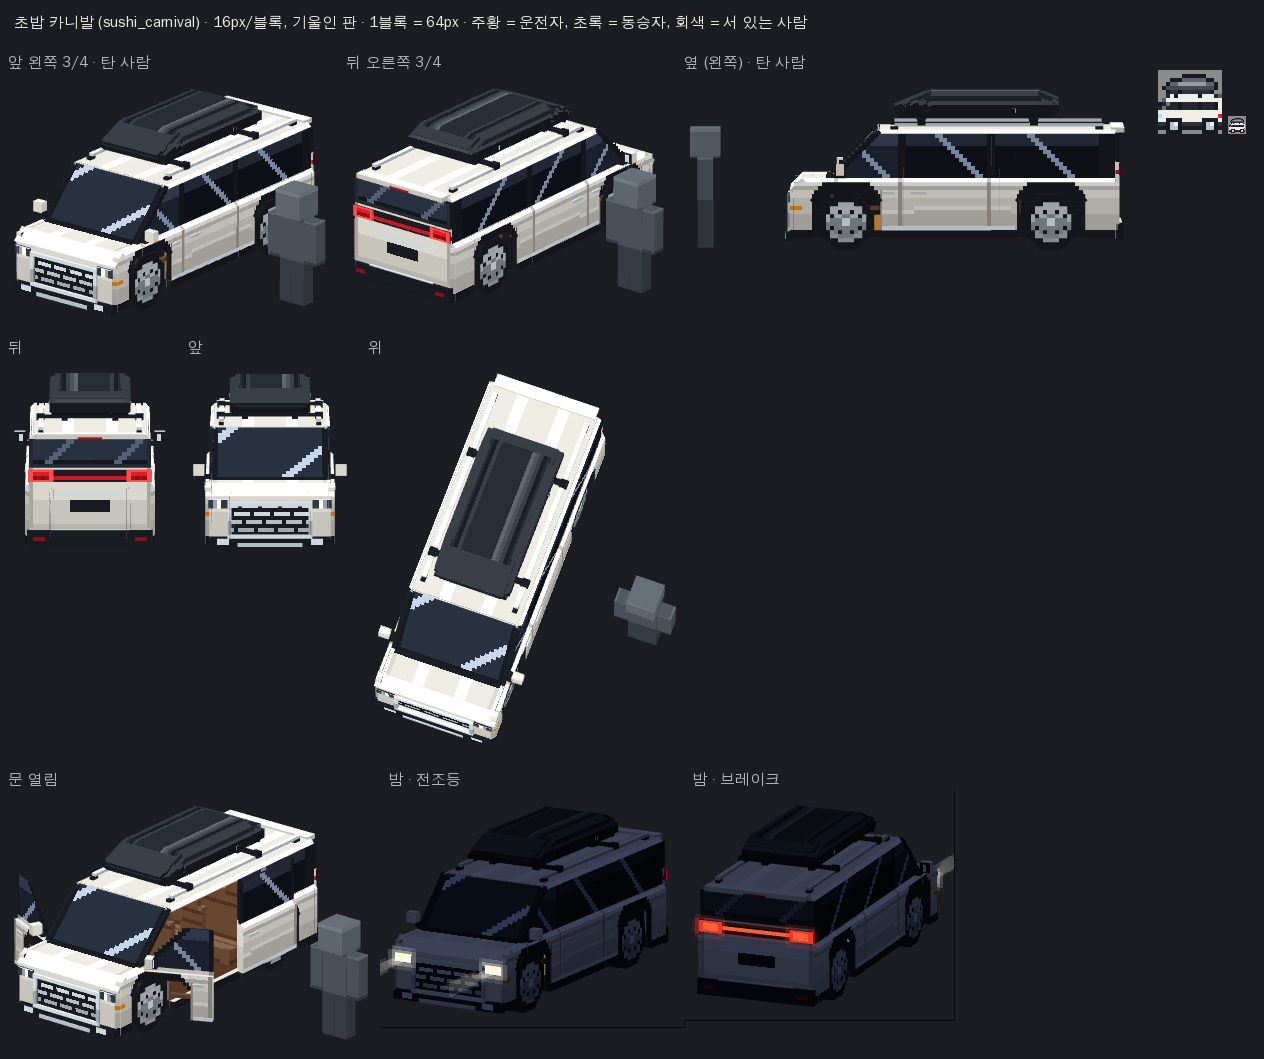
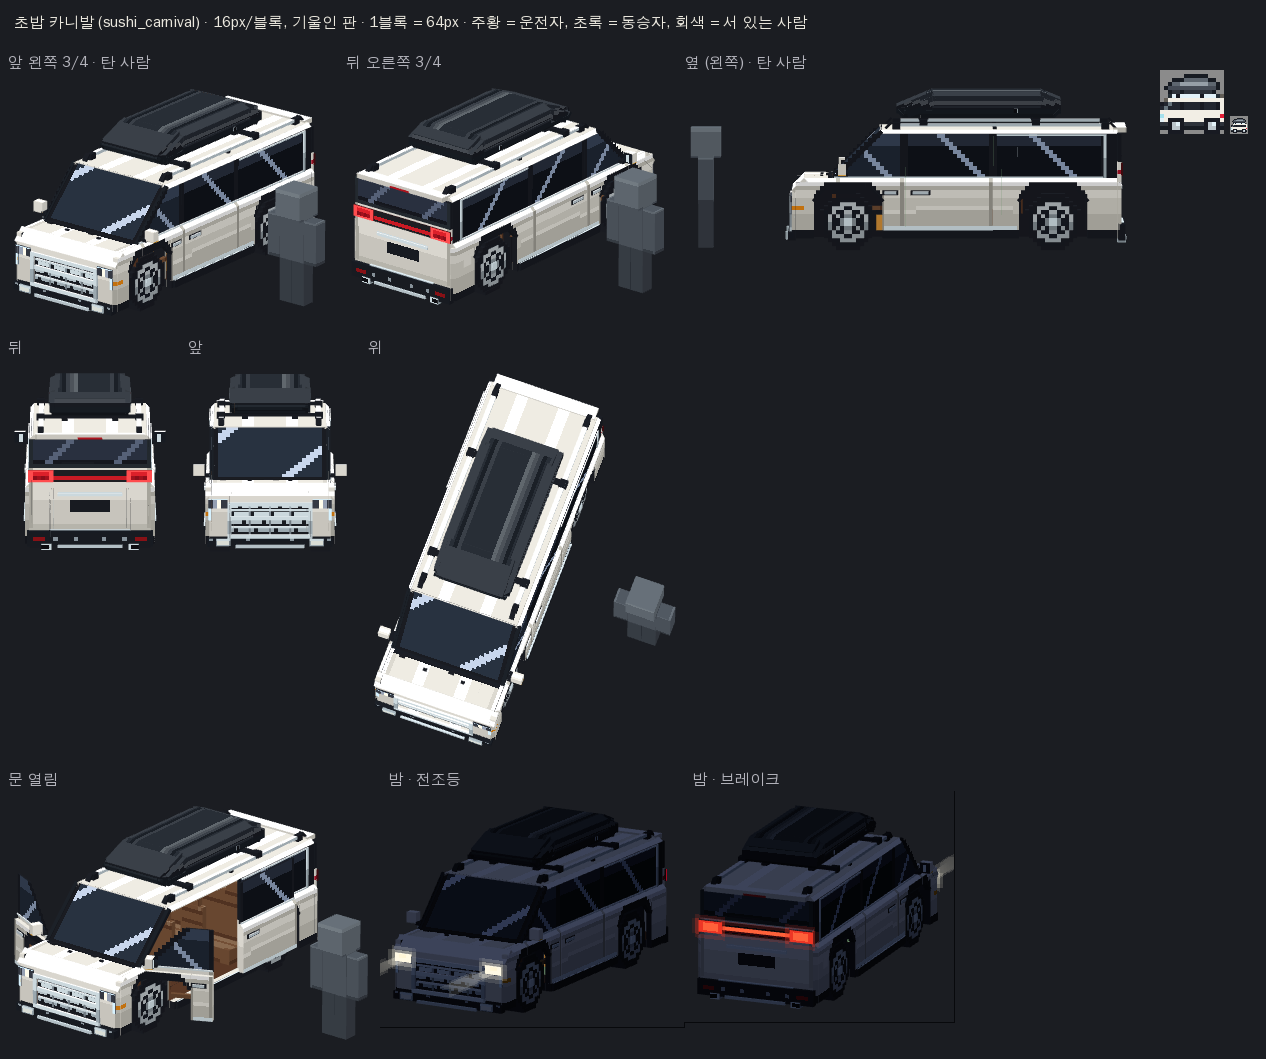
작업 중간 저장 (아직 jar 아님)
Claude-Session: https://claude.ai/code/session_01RZiBpXr9dauHCJtPMWBQ4s

diff --git a/tools/assetgen/models/vehicles_donation_sushi_carnival.py b/tools/assetgen/models/vehicles_donation_sushi_carnival.py
@@ -407,6 +407,7 @@ def carnival_kit(colour="sc_pearl", trim="sc_leather", box="sc_box", name="sushi
     _door_parts(kit, ctx)
     _roof_rack(m, ctx)
     _roof_box(m, ctx)
+    _side_details(m, ctx)
     m.display = _held_display()
     _KIT[key] = kit
     return kit
@@ -563,14 +564,54 @@ def _front(m, ctx):
     def valance(c):
         x, y, z = c.p
         ax = abs(x)
-        if c.face == "north" and 3.5 <= y < 4.5 and 4.5 <= ax < 8.5:
-            return tone("sc_black", 0.0) if math.floor(x) % 2 else tone("sc_black", 0.4)
-        if c.face == "north" and 3.5 <= y < 4.5 and 10 <= ax < 13:
-            return ("raw", (230, 236, 244, 255))                         # fog lamp slots
+        if c.face == "north" and 3 <= y < 4 and 4.5 <= ax < 8.5:
+            return tone("sc_black", 0.0) if math.floor(x) % 2 else tone("sc_black", 0.45)   # the intake's mesh
+        if c.face == "north" and 4 <= y < 4.5 and math.floor(ax) in (5, 14):
+            return tone("sc_chrome", 0.45)                               # parking sensors
         return tone("sc_black", 0.32 if c.face != "up" else 0.5)
     m.box("valance", (-(W - 0.5), GROUND - 0.5, NOSE - 1), (W - 0.5, GRILLE_Y0 - 1, NOSE + 1),
           Paint("sc_black", 1, noise=0, grad=0, rim=0.3, decal=valance))
-    m.box("skid", (-8, GROUND - 0.5, NOSE - 1.25), (8, GROUND + 0.5, NOSE - 1), _chrome(0.9, 0.7, 0.5))
+    # the silver skid-plate lip under it
+    m.box("skid", (-8.5, GROUND - 0.75, NOSE - 1.5), (8.5, GROUND, NOSE - 0.5), _chrome(0.9, 0.72, 0.5))
+    _front_details(m, ctx)
+
+
+def _front_details(m, ctx):
+    """The grille's 3D chrome bars, the L-shaped running lights, the fog lamps, washer jets, wipers."""
+    fr = _chrome(0.98, 0.82, 0.55)
+
+    def bar(c):
+        if c.face == "north" and abs(c.p[0]) < 0.5 and c.hi[1] - c.lo[1] > 0.6:
+            return ("raw", (16, 16, 20, 255))                            # the parking camera's eye
+        return fr.decal(c)
+    m.box("grille_bar", (-GRILLE_X, 9, NOSE - 0.2), (GRILLE_X, 10, NOSE + 0.5), Paint("sc_chrome", 5, noise=0, rim=0.4, ao=0.2, decal=bar))
+    for y in (7, 11.25):
+        m.box("grille_slat", (-GRILLE_X, y, NOSE + 0.2), (GRILLE_X, y + 0.5, NOSE + 0.6), fr)
+    for x in (-5, 0, 5):
+        m.box("grille_rib", (x - 0.25, GRILLE_Y0, NOSE + 0.45), (x + 0.25, GRILLE_Y1, NOSE + 0.7), _chrome(0.7, 0.5, 0.35))
+    m.group("lights")
+    drl = Paint("sc_led", 2, noise=0, light=False, glow=True, decal=lambda c: ("raw", (214, 242, 255, 255)) if c.face == "north" else ("raw", (60, 70, 84, 255)))
+    for s in (-1, 1):
+        # the L: down the lamp's outer end
+        m.box("drl", _lo(s, LAMP[1] - 0.75, LAMP[1], 9, NOSE - 0.3), _hi(s, LAMP[1] - 0.75, LAMP[1], LAMP[2], NOSE), drl)
+
+        def fog(c):
+            if c.face != "north":
+                return tone("sc_chrome", 0.6)
+            dx, dy = abs(c.p[0]) - 11.5, c.p[1] - 3.75
+            if abs(dx) < 1.25 and abs(dy) < 0.5:
+                return ("raw", (240, 244, 236, 255))
+            return tone("sc_chrome", 0.85 if dy > 0 else 0.55)
+        m.box("fog_lamp", _lo(s, 9.75, 13.25, 2.75, NOSE - 1.6), _hi(s, 9.75, 13.25, 4.5, NOSE - 1),
+              Paint("sc_chrome", 5, noise=0, light=False, decal=fog))
+    m.group("body")
+    for s in (-1, 1):
+        m.box("washer_jet", _lo(s, 4.5, 5.5, BELT, -34), _hi(s, 4.5, 5.5, BELT + 0.35, -33.25), BLACK)
+    wip = Paint("sc_black", 0, noise=0, rim=0.4)
+    for x0, x1 in ((-12.5, -1.5), (1.5, 11.5)):
+        m.box("wiper", (x0, BELT, ZS0 - 0.9), (x1, BELT + 0.4, ZS0 - 0.4), wip)
+    for x in (-1.5, 11.5):
+        m.box("wiper_arm", (x - 0.75, BELT, ZS0 - 1.6), (x + 0.75, BELT + 0.5, ZS0 - 0.9), wip)
 
 
 def _rear(m, ctx):
@@ -616,7 +657,9 @@ def _rear(m, ctx):
     def bumper(c):
         x, y, z = c.p
         if c.face == "south" and 4.5 <= y < 5.5 and 11.5 <= abs(x) < 14:
-            return ("raw", (150, 20, 26, 255))
+            return ("raw", (150, 20, 26, 255))                           # reflectors
+        if c.face == "south" and 4.5 <= y < 5 and math.floor(abs(x)) in (3, 8):
+            return tone("sc_chrome", 0.45)                               # parking sensors
         if c.face == "up":
             return tone("sc_black", 0.5)
         return tone("sc_black", 0.28)
@@ -629,6 +672,18 @@ def _rear(m, ctx):
     m.box("spoiler", (-(W - 2.5), ROOF - 0.75, RZ1 - 1), (W - 2.5, ROOF + 0.5, TAIL + 1.25), sp)
     m.box("stop_lamp", (-3, ROOF - 0.75, TAIL + 1.25), (3, ROOF - 0.25, TAIL + 1.3),
           Paint("sc_tail", 1, noise=0, light=False, decal=lambda c: ("raw", (190, 24, 34, 255))))
+    # the chrome garnish over the plate, the silver skid plate, two slim exhaust tips under the bumper
+    m.box("garnish", (-8, 15, TAIL), (8, 15.75, TAIL + 0.3), _chrome(0.98, 0.82, 0.55))
+    m.box("skid_r", (-8, GROUND - 0.75, TAIL + 0.5), (8, GROUND, TAIL + 1.4), _chrome(0.9, 0.72, 0.5))
+
+    def tip(c):
+        if c.face == "south":
+            r = abs(c.p[1] - 2.5)
+            return ("raw", (16, 16, 20, 255)) if r < 0.3 and abs(abs(c.p[0]) - 10.75) < 0.9 else tone("sc_chrome", 0.9)
+        return tone("sc_chrome", 0.7)
+    for s in (-1, 1):
+        m.box("exhaust", _lo(s, 9.5, 12, 1.75, TAIL - 1), _hi(s, 9.5, 12, 3.25, TAIL + 1.2),
+              Paint("sc_chrome", 5, noise=0, rim=0.3, decal=tip))
 
 
 def _glasshouse(m, kit, ctx):
@@ -774,13 +829,50 @@ def _door_parts(kit, ctx):
             if c.face in ("east", "west") and c.p[1] < BELT + 1.5:
                 return ("raw", (255, 190, 80, 255))                     # the repeater along its foot
             return tone(C, 0.8)
-        d.box("mirror_foot", _lo(s, W - 1, W + 0.5, BELT, z), _hi(s, W - 1, W + 0.5, BELT + 1, z + 2.5), BLACK)
+        d.box("mirror_foot", _lo(s, W - 1, W + 0.5, BELT + 0.4, z), _hi(s, W - 1, W + 0.5, BELT + 1.2, z + 2.5), BLACK)
         d.box("mirror", _lo(s, W + 0.25, W + 3, BELT + 0.75, z), _hi(s, W + 0.25, W + 3, BELT + 3.5, z + 2),
               Paint(C, 4, noise=0, grad=0, rim=0.3, ao=0, decal=mirror))
-        d.box("handle", _lo(s, W, W + 0.3, 14, D1 - 5), _hi(s, W, W + 0.3, 14.75, D1 - 2), CHROME)
+        d.box("handle_cup", _lo(s, W, W + 0.1, 13.75, D1 - 5.5), _hi(s, W, W + 0.1, 15, D1 - 1.5), BLACK)
+        d.box("handle", _lo(s, W + 0.1, W + 0.4, 14, D1 - 5), _hi(s, W + 0.1, W + 0.4, 14.75, D1 - 2), CHROME)
         d.box("arm_rest", _lo(s, CAB - 1, CAB, 10, D0 + 6), _hi(s, CAB - 1, CAB, 11, D1 - 2), Paint(TR, 2, noise=0, rim=0.4))
         sl = kit["slide_l" if s < 0 else "slide_r"]
-        sl.box("handle", _lo(s, W, W + 0.3, 14, S0 + 2), _hi(s, W, W + 0.3, 14.75, S0 + 6), CHROME)
+        sl.box("handle_cup", _lo(s, W, W + 0.1, 13.75, S0 + 1.5), _hi(s, W, W + 0.1, 15, S0 + 6.5), BLACK)
+        sl.box("handle", _lo(s, W + 0.1, W + 0.4, 14, S0 + 2), _hi(s, W + 0.1, W + 0.4, 14.75, S0 + 6), CHROME)
+        # the chrome window-line trim along the belt (front door, sliding door; the body has the rest)
+        trim = _chrome(0.98, 0.85, 0.6)
+        d.box("belt_trim", _lo(s, CAB + 0.5, CAB + 0.8, BELT, D0), _hi(s, CAB + 0.5, CAB + 0.8, BELT + 0.4, D1), trim)
+        sl.box("belt_trim", _lo(s, CAB + 0.5, CAB + 0.8, BELT, S0), _hi(s, CAB + 0.5, CAB + 0.8, BELT + 0.4, S1), trim)
+
+
+def _side_details(m, ctx):
+    """The body's chrome belt trim and the Carnival-like chrome sweep along the quarter window's top and down the D
+    pillar, the black rocker cladding with a chrome strip, the fuel flap on the right rear quarter."""
+    trim = _chrome(0.98, 0.85, 0.6)
+    for s in (-1, 1):
+        lo, hi = CAB + 0.5, CAB + 0.8
+        m.box("belt_trim", _lo(s, lo, hi, BELT, ZS0 + 0.5), _hi(s, lo, hi, BELT + 0.4, D0), trim)
+        m.box("belt_trim", _lo(s, lo, hi, BELT, S1), _hi(s, lo, hi, BELT + 0.4, RZ1 - 3.5), trim)
+        m.box("dlo_trim", _lo(s, lo, hi, GLASS_TOP - 0.5, S1 + 1), _hi(s, lo, hi, GLASS_TOP - 0.1, RZ1 - 2.75), trim)
+        m.box("pillar_fin", _lo(s, lo, hi, BELT, RZ1 - 3.5), _hi(s, lo, hi, GLASS_TOP - 0.5, RZ1 - 2.75), trim)
+
+        def rocker(c):
+            if c.face == "up":
+                return tone("sc_chrome", 0.85)
+            if c.face in ("east", "west") and c.p[1] > GROUND + 1.6:
+                return tone("sc_chrome", 0.7)
+            return tone("sc_black", 0.2)
+        m.box("rocker", _lo(s, W, W + 0.5, GROUND, WF + ARCH + 0.75), _hi(s, W, W + 0.5, GROUND + 2, WR - ARCH - 0.75),
+              Paint("sc_black", 1, noise=0, rim=0.3, decal=rocker))
+    C = ctx["C"]
+
+    def flap(c):
+        if c.face != "east":
+            return tone(C, 0.6)
+        u, v = c.p[2] - 34, c.p[1] - 11
+        if u < 0.5 or u > 2.5 or v < 0.5 or v > 2.5:
+            return tone(C, 0.35)                                         # its shut line
+        return tone(C, 0.82)
+    m.box("fuel_flap", (W, 11, 34), (W + 0.1, 14, 37), Paint(C, 4, noise=0, rim=0, decal=flap))
 
 
 def _roof_rack(m, ctx):
@@ -788,9 +880,13 @@ def _roof_rack(m, ctx):
     rail = _chrome(0.95, 0.75, 0.5)
     for s in (-1, 1):
         x0, x1 = 11.5, 12.75
-        m.box("rail", _lo(s, x0, x1, ROOF + 0.75, ZS1 + 4), _hi(s, x0, x1, RAIL_Y, RZ1 - 3), rail)
-        for z0 in (ZS1 + 3, RZ1 - 5):
-            m.box("rail_foot", _lo(s, x0, x1, ROOF, z0), _hi(s, x0, x1, ROOF + 0.75, z0 + 2), BLACK)
+        m.box("rail", _lo(s, x0, x1, ROOF + 0.75, ZS1 + 5), _hi(s, x0, x1, RAIL_Y, RZ1 - 4), rail)
+        m.box("rail_post", _lo(s, x0 + 0.25, x1 - 0.25, ROOF, 9), _hi(s, x0 + 0.25, x1 - 0.25, ROOF + 0.75, 10), BLACK)
+        # the black end caps, their ends bevelled at 45 degrees
+        for z0, z1 in ((ZS1 + 3, ZS1 + 5), (RZ1 - 4, RZ1 - 2)):
+            m.box("rail_cap", _lo(s, x0 - 0.1, x1 + 0.1, ROOF, z0), _hi(s, x0 - 0.1, x1 + 0.1, RAIL_Y + 0.1, z1), BLACK)
+        plank(m, "rail_cap_nose", "x", (ZS1 + 1.5, ROOF), (ZS1 + 3, RAIL_Y), _x(s, x0, x1), 0.6, BLACK, below=False)
+        plank(m, "rail_cap_tail", "x", (RZ1 - 2, RAIL_Y), (RZ1 - 0.5, ROOF), _x(s, x0, x1), 0.6, BLACK, below=False)
     for zb in (-9, 19):
         m.box("cross_bar", (-13, RAIL_Y, zb), (13, BAR_Y, zb + 1.5), BLACK)
         for s in (-1, 1):
@@ -886,6 +982,10 @@ def _roof_box(m, ctx):
     for s in (-1, 1):
         m.box("box_lock", _lo(s, BX, BX + 0.25, SHUT - 1.25, 14.25), _hi(s, BX, BX + 0.25, SHUT - 0.25, 15.25),
               Paint("sc_chrome", 5, noise=0, rim=0.3, decal=lock))
+    # the lid's lip along each side, just over the shut line
+    for s in (-1, 1):
+        m.box("box_lip", _lo(s, BX, BX + 0.25, SHUT, zc0), _hi(s, BX, BX + 0.25, SHUT + 0.5, zc1),
+              Paint(B, 3, noise=0, rim=0.3, decal=lambda c: tone(B, 0.85 if c.face == "up" else 0.55)))
     # the feet: a block under the box on each bar, a clamp hooked round the bar's underside
     foot = Paint("sc_black", 1, noise=0, grad=0, rim=0.3, ao=0.3)
     for zb in (-9, 19):
@@ -941,8 +1041,10 @@ def wheel_sushi_carnival():
         a = math.atan2(z, y)
         t = (a * 10 / (2 * math.pi)) % 1.0
         dpx = abs(t - 0.5) * 2 * math.pi * rr / 10
-        if dpx < 0.62:
-            return tone("sc_rim", 0.9 if y > 0.5 else 0.68)              # the spokes
+        if dpx < 0.75:
+            if dpx < 0.4 and rr > 2.4:
+                return tone("sc_rim", 1.0 if y > 0.5 else 0.82)          # the spokes' machined faces
+            return tone("sc_black", 0.45)                                # their dark painted flanks
         if rr > 2.8 and y > 1.4 and abs(z) < 1.4:
             return tone("sc_black", 0.35)                                # the calliper, dark
         return tone("sc_black", 0.0)
@@ -950,6 +1052,10 @@ def wheel_sushi_carnival():
     w2 = width / 2
     cyl(m, "hub", (0, 0), rim_d, w2, w2 + 0.25, p, axis="x")
     cyl(m, "hub", (0, 0), rim_d, -w2 - 0.25, -w2, p, axis="x")
+    # the centre caps, standing proud
+    cap = Paint("sc_chrome", 5, noise=0, rim=0.4, decal=lambda c: tone("sc_black", 0.3) if c.face in ("east", "west") and abs(c.p[1]) < 0.4 and abs(c.p[2]) < 0.4 else tone("sc_chrome", 0.85))
+    m.box("cap", (w2 + 0.25, -0.9, -0.9), (w2 + 0.6, 0.9, 0.9), cap)
+    m.box("cap", (-w2 - 0.6, -0.9, -0.9), (-w2 - 0.25, 0.9, 0.9), cap)
     m.display = presets.furniture(gui_scale=0.6)
     return m
 
